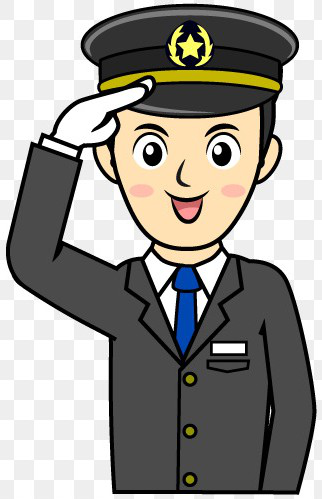
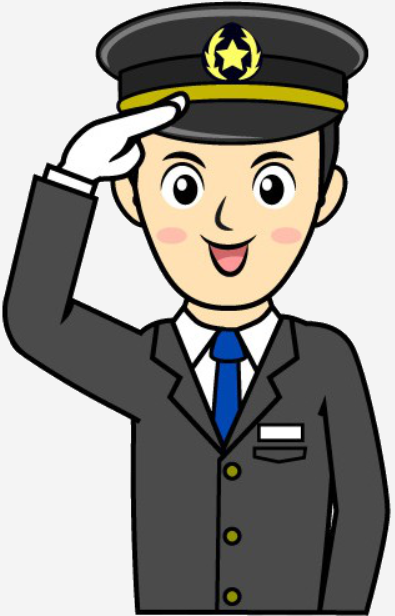
sauvegarde tutorial

diff --git a/src/ch/epfl/tchu/gui/TutorialViewCreator.java b/src/ch/epfl/tchu/gui/TutorialViewCreator.java
@@ -53,8 +53,12 @@ final class TutorialViewCreator {
 
         tutorialVBox.setPadding(new Insets(0, 0, 0, 200));
 
+        ImageView image = new ImageView("train-driver.png");
+        image.setFitWidth(100);
+        image.setFitHeight(120);
 
-        tutorialView.getChildren().addAll(tutorialVBox, new ImageView("train-car.png"));
+        tutorialView.getChildren().addAll(tutorialVBox, image);
+
 
 
         return tutorialView;
